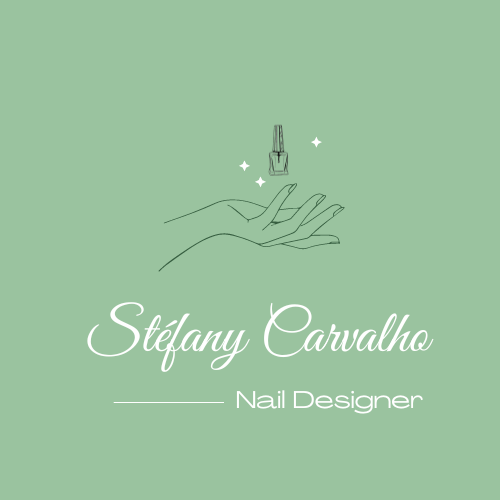
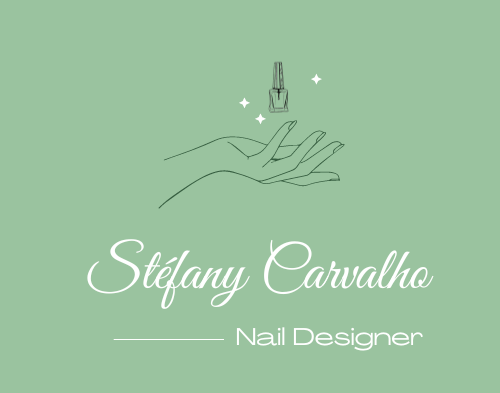
fix: melhorado responsividade

diff --git a/Css/login.css b/Css/login.css
@@ -373,11 +373,12 @@ input:-webkit-autofill
     .content {
         width: 80%;
         height: 90%;
+        margin: 0;
+        padding: 0;
     }
 
     .logo{
-    width: 110px;
-    margin-left: 10px;
+    width: 180px;
     }
 
     .content::before {
@@ -524,7 +525,7 @@ input:-webkit-autofill
 @media screen and (max-width: 740px) {
 
        .logo{
-        width: 100px;
+        width: 150px;
        }
 
     .form {
